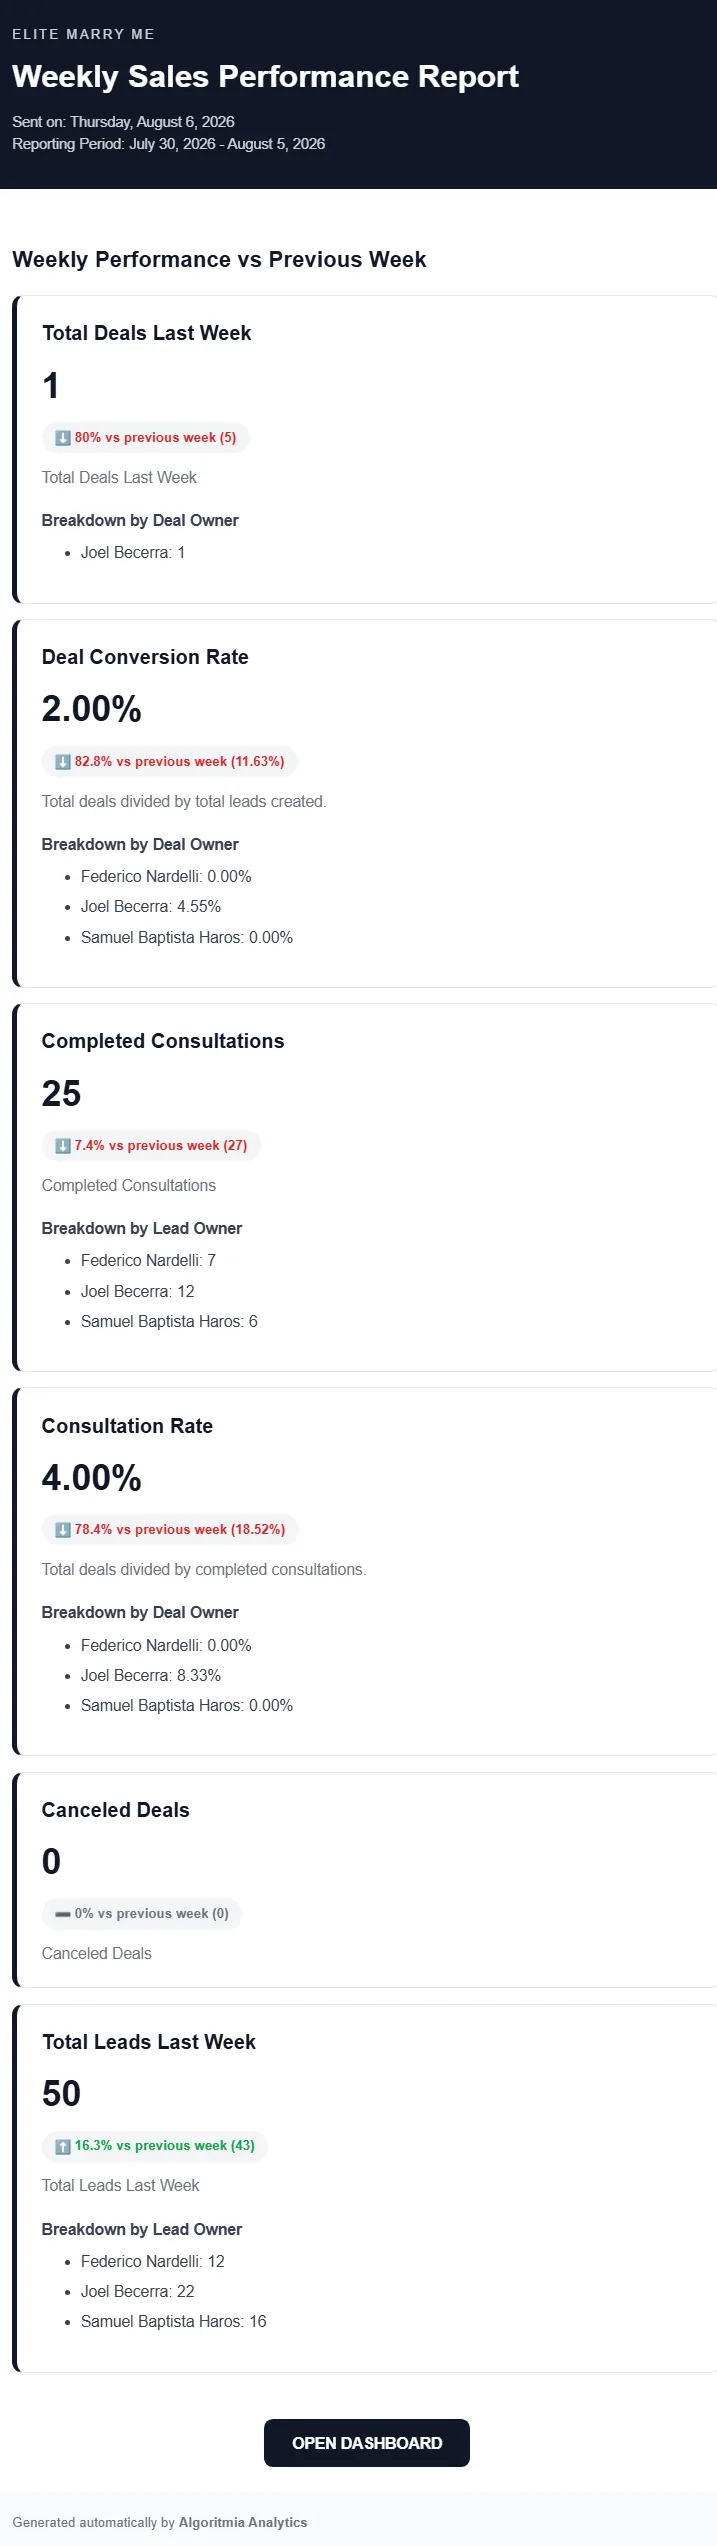
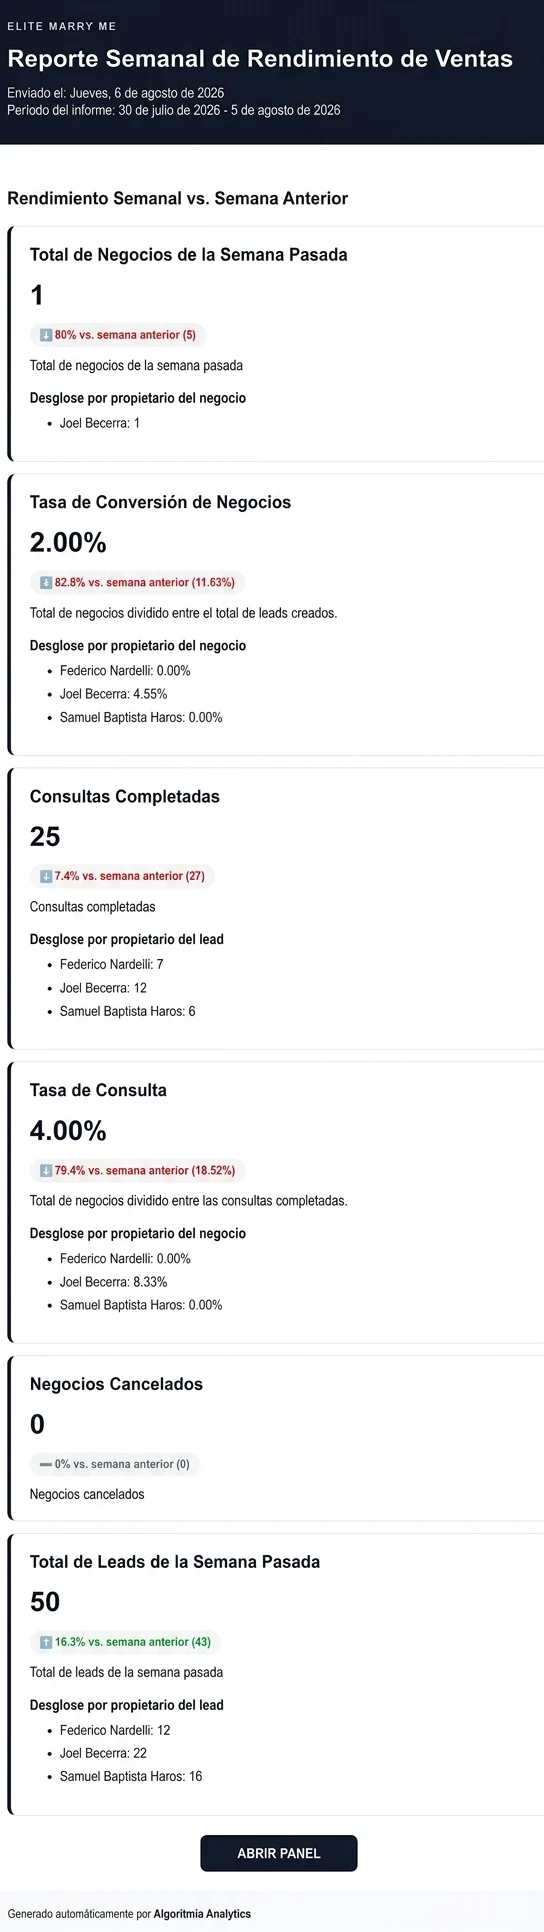
Foto en español para la automatización semanal de ventas
La captura actual (inglés) pasa a gmail data weekly-en.webp y la nueva
en español queda como la principal.

Claude-Session: https://claude.ai/code/session_01Aouw9WnimsE2P6Qrue7KLf

diff --git a/electronica-robotica.html b/electronica-robotica.html
@@ -2,4 +2,4 @@
 <html lang="en"><head><meta charset="UTF-8"><meta name="viewport" content="width=device-width, initial-scale=1.0"><title>Electronics &amp; Robotics · Geraldine.io</title><link rel="icon" type="image/svg+xml" href="assets/img/favicon.svg"><link rel="preconnect" href="https://fonts.googleapis.com"><link href="https://fonts.googleapis.com/css2?family=Fredoka:wght@500;600;700&family=Inter:wght@400;500;600;700&family=JetBrains+Mono:wght@400;500;700&display=swap" rel="stylesheet"><link rel="stylesheet" href="assets/styles.css?v=54"><script src="assets/theme-init.js?v=3"></script></head>
 <body class="category-page">
 <header><a class="brand display" href="index.html"><span class="paw">🐇</span><span>Geraldine<span style="color:var(--pink-deeper)">.io</span></span></a><nav class="category-nav" id="navMenu"><a href="index.html#sobre" data-i18n="nav_about">About</a><a href="index.html#skills" data-i18n="nav_skills">Skills</a><div class="nav-dropdown" id="projectsDropdown"><button class="nav-dropdown-toggle" id="projectsToggle" type="button" aria-expanded="false" aria-controls="projectsMenu"><span data-i18n="nav_projects">Projects</span><span class="nav-chevron" aria-hidden="true">⌄</span></button><div class="nav-dropdown-menu" id="projectsMenu"><a href="analisis-datos.html" data-i18n="nav_data">Data Analysis</a><a href="automatizaciones.html" data-i18n="nav_automation">Automations</a><a href="electronica-robotica.html" aria-current="page" data-i18n="nav_robotics">Electronics &amp; Robotics</a><a href="mobile-apps.html" data-i18n="nav_mobile">Mobile Apps</a><a href="paginas-web.html" data-i18n="nav_sites">Páginas web</a><a href="disenos.html" data-i18n="nav_design">Designs</a></div></div><a href="index.html#contacto" data-i18n="nav_contact">Contact</a></nav><div class="header-actions"><button class="theme-btn" id="themeBtn" type="button" aria-label="Switch to dark mode" aria-pressed="false" title="Switch to dark mode"><span id="themeIcon" aria-hidden="true">☾</span></button><button class="lang-btn" id="langBtn" type="button"><span id="langLabel">Cambiar idioma · EN</span></button><button class="nav-toggle" id="navToggle" type="button" aria-label="Open menu" aria-expanded="false" aria-controls="navMenu">☰</button></div></header>
-<main><section class="category-hero"><div class="category-kicker"><a class="back-link" href="index.html#proyectos" data-i18n="back">← Back to home</a><span class="eyebrow" data-i18n="eyebrow">projects</span></div><h1 data-i18n="robotics_title">Electronics &amp; Robotics</h1><p data-i18n="robotics_desc">Prototypes with sensors, microcontrollers and interactive physical systems.</p></section><section class="category-projects"><div class="proj-grid"><article class="proj-card"><h3 data-i18n="robotics_project">WRO Nicaragua 2024</h3><p data-i18n="robotics_project_desc">Robot developed for the 2024 National Robotics Olympiad challenge in Nicaragua.</p><div class="proj-stack"><span>MicroPython</span><span>Robotics</span><span>Sensors</span><span>Gyroscope</span></div><button class="proj-btn" type="button" data-project-index="3" data-i18n="view_project">View project</button></article><article class="proj-card"><h3 data-i18n="arduino_project">Arduino Projects Collection</h3><p data-i18n="arduino_project_desc">Collection of Arduino experiments with sensors, motors, Bluetooth modules, displays and interactive circuits.</p><div class="proj-stack"><span>Arduino</span><span>C++</span><span>Bluetooth</span><span>Sensors</span></div><button class="proj-btn" type="button" data-project-index="10" data-i18n="view_project">View project</button></article></div></section></main><script src="assets/project-pages.js?v=28"></script><script src="assets/navigation.js?v=22"></script></body></html>
+<main><section class="category-hero"><div class="category-kicker"><a class="back-link" href="index.html#proyectos" data-i18n="back">← Back to home</a><span class="eyebrow" data-i18n="eyebrow">projects</span></div><h1 data-i18n="robotics_title">Electronics &amp; Robotics</h1><p data-i18n="robotics_desc">Prototypes with sensors, microcontrollers and interactive physical systems.</p></section><section class="category-projects"><div class="proj-grid"><article class="proj-card"><h3 data-i18n="robotics_project">WRO Nicaragua 2024</h3><p data-i18n="robotics_project_desc">Robot developed for the 2024 National Robotics Olympiad challenge in Nicaragua.</p><div class="proj-stack"><span>MicroPython</span><span>Robotics</span><span>Sensors</span><span>Gyroscope</span></div><button class="proj-btn" type="button" data-project-index="3" data-i18n="view_project">View project</button></article><article class="proj-card"><h3 data-i18n="arduino_project">Arduino Projects Collection</h3><p data-i18n="arduino_project_desc">Collection of Arduino experiments with sensors, motors, Bluetooth modules, displays and interactive circuits.</p><div class="proj-stack"><span>Arduino</span><span>C++</span><span>Bluetooth</span><span>Sensors</span></div><button class="proj-btn" type="button" data-project-index="10" data-i18n="view_project">View project</button></article></div></section></main><script src="assets/project-pages.js?v=29"></script><script src="assets/navigation.js?v=22"></script></body></html>

diff --git a/automatizaciones.html b/automatizaciones.html
@@ -2,4 +2,4 @@
 <html lang="en"><head><meta charset="UTF-8"><meta name="viewport" content="width=device-width, initial-scale=1.0"><title>Automations · Geraldine.io</title><link rel="icon" type="image/svg+xml" href="assets/img/favicon.svg"><link rel="preconnect" href="https://fonts.googleapis.com"><link href="https://fonts.googleapis.com/css2?family=Fredoka:wght@500;600;700&family=Inter:wght@400;500;600;700&family=JetBrains+Mono:wght@400;500;700&display=swap" rel="stylesheet"><link rel="stylesheet" href="assets/styles.css?v=54"><script src="assets/theme-init.js?v=3"></script></head>
 <body class="category-page">
 <header><a class="brand display" href="index.html"><span class="paw">🐇</span><span>Geraldine<span style="color:var(--pink-deeper)">.io</span></span></a><nav class="category-nav" id="navMenu"><a href="index.html#sobre" data-i18n="nav_about">About</a><a href="index.html#skills" data-i18n="nav_skills">Skills</a><div class="nav-dropdown" id="projectsDropdown"><button class="nav-dropdown-toggle" id="projectsToggle" type="button" aria-expanded="false" aria-controls="projectsMenu"><span data-i18n="nav_projects">Projects</span><span class="nav-chevron" aria-hidden="true">⌄</span></button><div class="nav-dropdown-menu" id="projectsMenu"><a href="analisis-datos.html" data-i18n="nav_data">Data Analysis</a><a href="automatizaciones.html" aria-current="page" data-i18n="nav_automation">Automations</a><a href="electronica-robotica.html" data-i18n="nav_robotics">Electronics &amp; Robotics</a><a href="mobile-apps.html" data-i18n="nav_mobile">Mobile Apps</a><a href="paginas-web.html" data-i18n="nav_sites">Páginas web</a><a href="disenos.html" data-i18n="nav_design">Designs</a></div></div><a href="index.html#contacto" data-i18n="nav_contact">Contact</a></nav><div class="header-actions"><button class="theme-btn" id="themeBtn" type="button" aria-label="Switch to dark mode" aria-pressed="false" title="Switch to dark mode"><span id="themeIcon" aria-hidden="true">☾</span></button><button class="lang-btn" id="langBtn" type="button"><span id="langLabel">Cambiar idioma · EN</span></button><button class="nav-toggle" id="navToggle" type="button" aria-label="Open menu" aria-expanded="false" aria-controls="navMenu">☰</button></div></header>
-<main><section class="category-hero"><div class="category-kicker"><a class="back-link" href="index.html#proyectos" data-i18n="back">← Back to home</a><span class="eyebrow" data-i18n="eyebrow">projects</span></div><h1 data-i18n="automation_title">Automations</h1><p data-i18n="automation_desc">Solutions that connect tools, reduce repetitive work and keep information updated automatically.</p></section><section class="category-projects"><div class="proj-grid"><article class="proj-card"><h3 data-i18n="automation_project">Weekly Sales Performance Automation</h3><p data-i18n="automation_project_desc">Weekly sales report automated with Google Apps Script using data from BigQuery and HubSpot, then delivered through Gmail.</p><div class="proj-stack"><span>Google Apps Script</span><span>BigQuery</span><span>HubSpot</span><span>Gmail</span></div><button class="proj-btn" type="button" data-project-index="7" data-i18n="view_project">View project</button></article></div></section></main><script src="assets/project-pages.js?v=28"></script><script src="assets/navigation.js?v=22"></script></body></html>
+<main><section class="category-hero"><div class="category-kicker"><a class="back-link" href="index.html#proyectos" data-i18n="back">← Back to home</a><span class="eyebrow" data-i18n="eyebrow">projects</span></div><h1 data-i18n="automation_title">Automations</h1><p data-i18n="automation_desc">Solutions that connect tools, reduce repetitive work and keep information updated automatically.</p></section><section class="category-projects"><div class="proj-grid"><article class="proj-card"><h3 data-i18n="automation_project">Weekly Sales Performance Automation</h3><p data-i18n="automation_project_desc">Weekly sales report automated with Google Apps Script using data from BigQuery and HubSpot, then delivered through Gmail.</p><div class="proj-stack"><span>Google Apps Script</span><span>BigQuery</span><span>HubSpot</span><span>Gmail</span></div><button class="proj-btn" type="button" data-project-index="7" data-i18n="view_project">View project</button></article></div></section></main><script src="assets/project-pages.js?v=29"></script><script src="assets/navigation.js?v=22"></script></body></html>

diff --git a/disenos.html b/disenos.html
@@ -2,4 +2,4 @@
 <html lang="en"><head><meta charset="UTF-8"><meta name="viewport" content="width=device-width, initial-scale=1.0"><title>Designs · Geraldine.io</title><link rel="icon" type="image/svg+xml" href="assets/img/favicon.svg"><link rel="preconnect" href="https://fonts.googleapis.com"><link href="https://fonts.googleapis.com/css2?family=Fredoka:wght@500;600;700&family=Inter:wght@400;500;600;700&family=JetBrains+Mono:wght@400;500;700&display=swap" rel="stylesheet"><link rel="stylesheet" href="assets/styles.css?v=54"><script src="assets/theme-init.js?v=3"></script></head>
 <body class="category-page">
 <header><a class="brand display" href="index.html"><span class="paw">🐇</span><span>Geraldine<span style="color:var(--pink-deeper)">.io</span></span></a><nav class="category-nav" id="navMenu"><a href="index.html#sobre" data-i18n="nav_about">About</a><a href="index.html#skills" data-i18n="nav_skills">Skills</a><div class="nav-dropdown" id="projectsDropdown"><button class="nav-dropdown-toggle" id="projectsToggle" type="button" aria-expanded="false" aria-controls="projectsMenu"><span data-i18n="nav_projects">Projects</span><span class="nav-chevron" aria-hidden="true">⌄</span></button><div class="nav-dropdown-menu" id="projectsMenu"><a href="analisis-datos.html" data-i18n="nav_data">Data Analysis</a><a href="automatizaciones.html" data-i18n="nav_automation">Automations</a><a href="electronica-robotica.html" data-i18n="nav_robotics">Electronics &amp; Robotics</a><a href="mobile-apps.html" data-i18n="nav_mobile">Mobile Apps</a><a href="paginas-web.html" data-i18n="nav_sites">Páginas web</a><a href="disenos.html" aria-current="page" data-i18n="nav_design">Designs</a></div></div><a href="index.html#contacto" data-i18n="nav_contact">Contact</a></nav><div class="header-actions"><button class="theme-btn" id="themeBtn" type="button" aria-label="Switch to dark mode" aria-pressed="false" title="Switch to dark mode"><span id="themeIcon" aria-hidden="true">☾</span></button><button class="lang-btn" id="langBtn" type="button"><span id="langLabel">Cambiar idioma · EN</span></button><button class="nav-toggle" id="navToggle" type="button" aria-label="Open menu" aria-expanded="false" aria-controls="navMenu">☰</button></div></header>
-<main><section class="category-hero"><div class="category-kicker"><a class="back-link" href="index.html#proyectos" data-i18n="back">← Back to home</a><span class="eyebrow" data-i18n="eyebrow">projects</span></div><h1 data-i18n="design_title">Designs</h1></section><section class="category-projects"><div class="proj-grid"><article class="proj-card"><h3 data-i18n="design_project">Gerald Shop Brand Identity</h3><div class="client-icon" aria-label="Gerald Shop project"><img class="client-logo wide" src="assets/img/GeraldShop/geraldshop_icon.webp" alt="Gerald Shop logo"></div><p data-i18n="design_project_desc">Brand identity for a shipping agency connecting customers in Nicaragua with products from the United States.</p><div class="proj-stack"><span>Canva</span><span>Illustrator</span><span>Photoshop</span><span>PowerPoint</span></div><button class="proj-btn" type="button" data-project-index="6" data-i18n="view_project">View project</button></article></div></section></main><script src="assets/project-pages.js?v=28"></script><script src="assets/navigation.js?v=22"></script></body></html>
+<main><section class="category-hero"><div class="category-kicker"><a class="back-link" href="index.html#proyectos" data-i18n="back">← Back to home</a><span class="eyebrow" data-i18n="eyebrow">projects</span></div><h1 data-i18n="design_title">Designs</h1></section><section class="category-projects"><div class="proj-grid"><article class="proj-card"><h3 data-i18n="design_project">Gerald Shop Brand Identity</h3><div class="client-icon" aria-label="Gerald Shop project"><img class="client-logo wide" src="assets/img/GeraldShop/geraldshop_icon.webp" alt="Gerald Shop logo"></div><p data-i18n="design_project_desc">Brand identity for a shipping agency connecting customers in Nicaragua with products from the United States.</p><div class="proj-stack"><span>Canva</span><span>Illustrator</span><span>Photoshop</span><span>PowerPoint</span></div><button class="proj-btn" type="button" data-project-index="6" data-i18n="view_project">View project</button></article></div></section></main><script src="assets/project-pages.js?v=29"></script><script src="assets/navigation.js?v=22"></script></body></html>

diff --git a/mobile-apps.html b/mobile-apps.html
@@ -2,4 +2,4 @@
 <html lang="en"><head><meta charset="UTF-8"><meta name="viewport" content="width=device-width, initial-scale=1.0"><title>Mobile Apps · Geraldine.io</title><link rel="icon" type="image/svg+xml" href="assets/img/favicon.svg"><link rel="preconnect" href="https://fonts.googleapis.com"><link href="https://fonts.googleapis.com/css2?family=Fredoka:wght@500;600;700&family=Inter:wght@400;500;600;700&family=JetBrains+Mono:wght@400;500;700&display=swap" rel="stylesheet"><link rel="stylesheet" href="assets/styles.css?v=54"><script src="assets/theme-init.js?v=3"></script></head>
 <body class="category-page">
 <header><a class="brand display" href="index.html"><span class="paw">🐇</span><span>Geraldine<span style="color:var(--pink-deeper)">.io</span></span></a><nav class="category-nav" id="navMenu"><a href="index.html#sobre" data-i18n="nav_about">About</a><a href="index.html#skills" data-i18n="nav_skills">Skills</a><div class="nav-dropdown" id="projectsDropdown"><button class="nav-dropdown-toggle" id="projectsToggle" type="button" aria-expanded="false" aria-controls="projectsMenu"><span data-i18n="nav_projects">Projects</span><span class="nav-chevron" aria-hidden="true">⌄</span></button><div class="nav-dropdown-menu" id="projectsMenu"><a href="analisis-datos.html" data-i18n="nav_data">Data Analysis</a><a href="automatizaciones.html" data-i18n="nav_automation">Automations</a><a href="electronica-robotica.html" data-i18n="nav_robotics">Electronics &amp; Robotics</a><a href="mobile-apps.html" aria-current="page" data-i18n="nav_mobile">Mobile Apps</a><a href="paginas-web.html" data-i18n="nav_sites">Páginas web</a><a href="disenos.html" data-i18n="nav_design">Designs</a></div></div><a href="index.html#contacto" data-i18n="nav_contact">Contact</a></nav><div class="header-actions"><button class="theme-btn" id="themeBtn" type="button" aria-label="Switch to dark mode" aria-pressed="false" title="Switch to dark mode"><span id="themeIcon" aria-hidden="true">☾</span></button><button class="lang-btn" id="langBtn" type="button"><span id="langLabel">Cambiar idioma · EN</span></button><button class="nav-toggle" id="navToggle" type="button" aria-label="Open menu" aria-expanded="false" aria-controls="navMenu">☰</button></div></header>
-<main><section class="category-hero"><div class="category-kicker"><a class="back-link" href="index.html#proyectos" data-i18n="back">← Back to home</a><span class="eyebrow" data-i18n="eyebrow">projects</span></div><h1 data-i18n="mobile_title">Mobile Apps</h1><p data-i18n="mobile_desc">Mobile applications developed for iOS and Android with clear, functional experiences.</p></section><section class="category-projects"><div class="proj-grid"><article class="proj-card"><h3 data-i18n="mobile_project">UAM Courses</h3><p data-i18n="mobile_project_desc">iOS application for exploring, organizing and managing the Universidad Americana course catalog.</p><div class="proj-stack"><span>Swift</span><span>UIKit</span><span>MVVM</span></div><button class="proj-btn" type="button" data-project-index="4" data-i18n="view_project">View project</button></article></div></section></main><script src="assets/project-pages.js?v=28"></script><script src="assets/navigation.js?v=22"></script></body></html>
+<main><section class="category-hero"><div class="category-kicker"><a class="back-link" href="index.html#proyectos" data-i18n="back">← Back to home</a><span class="eyebrow" data-i18n="eyebrow">projects</span></div><h1 data-i18n="mobile_title">Mobile Apps</h1><p data-i18n="mobile_desc">Mobile applications developed for iOS and Android with clear, functional experiences.</p></section><section class="category-projects"><div class="proj-grid"><article class="proj-card"><h3 data-i18n="mobile_project">UAM Courses</h3><p data-i18n="mobile_project_desc">iOS application for exploring, organizing and managing the Universidad Americana course catalog.</p><div class="proj-stack"><span>Swift</span><span>UIKit</span><span>MVVM</span></div><button class="proj-btn" type="button" data-project-index="4" data-i18n="view_project">View project</button></article></div></section></main><script src="assets/project-pages.js?v=29"></script><script src="assets/navigation.js?v=22"></script></body></html>

diff --git a/proyecto.html b/proyecto.html
@@ -2,4 +2,4 @@
 <html lang="en"><head><meta charset="UTF-8"><meta name="viewport" content="width=device-width, initial-scale=1.0"><title>Proyecto · Kristel Villalta</title><link rel="icon" type="image/svg+xml" href="assets/img/favicon.svg"><link rel="preconnect" href="https://fonts.googleapis.com"><link href="https://fonts.googleapis.com/css2?family=Fredoka:wght@500;600;700&family=Inter:wght@400;500;600;700&family=JetBrains+Mono:wght@400;500;700&display=swap" rel="stylesheet"><link rel="stylesheet" href="assets/styles.css?v=54"><script src="assets/theme-init.js?v=3"></script></head>
 <body class="category-page project-detail-page">
 <header><a class="brand display" href="index.html"><span class="paw">🐇</span><span>Geraldine<span style="color:var(--pink-deeper)">.io</span></span></a><nav class="category-nav" id="navMenu"><a href="index.html#sobre" data-i18n="nav_about">About</a><a href="index.html#skills" data-i18n="nav_skills">Skills</a><div class="nav-dropdown" id="projectsDropdown"><button class="nav-dropdown-toggle" id="projectsToggle" type="button" aria-expanded="false" aria-controls="projectsMenu"><span data-i18n="nav_projects">Projects</span><span class="nav-chevron" aria-hidden="true">⌄</span></button><div class="nav-dropdown-menu" id="projectsMenu"><a href="analisis-datos.html" data-i18n="nav_data">Data Analysis</a><a href="automatizaciones.html" data-i18n="nav_automation">Automations</a><a href="electronica-robotica.html" data-i18n="nav_robotics">Electronics &amp; Robotics</a><a href="mobile-apps.html" aria-current="page" data-i18n="nav_mobile">Mobile Apps</a><a href="paginas-web.html" data-i18n="nav_sites">Páginas web</a><a href="disenos.html" data-i18n="nav_design">Designs</a></div></div><a href="index.html#contacto" data-i18n="nav_contact">Contact</a></nav><div class="header-actions"><button class="theme-btn" id="themeBtn" type="button" aria-label="Switch to dark mode" aria-pressed="false" title="Switch to dark mode"><span id="themeIcon" aria-hidden="true">☾</span></button><button class="lang-btn" id="langBtn" type="button"><span id="langLabel">Cambiar idioma · EN</span></button><button class="nav-toggle" id="navToggle" type="button" aria-label="Open menu" aria-expanded="false" aria-controls="navMenu">☰</button></div></header>
-<main id="projectDetail" class="pd" aria-live="polite"></main><script src="assets/project-pages.js?v=28"></script><script src="assets/navigation.js?v=22"></script></body></html>
+<main id="projectDetail" class="pd" aria-live="polite"></main><script src="assets/project-pages.js?v=29"></script><script src="assets/navigation.js?v=22"></script></body></html>

diff --git a/assets/project-pages.js b/assets/project-pages.js
@@ -233,7 +233,7 @@ const projects = [
   },
   {
     title:{en:'Weekly Sales Performance Automation', es:'Automatización de Rendimiento Semanal de Ventas'},
-    images:[{src:'assets/img/Marry Me/gmail data weekly.webp', alt:'Automated weekly sales performance report'}],
+    images:[{src:'assets/img/Marry Me/gmail data weekly.webp', alt:'Reporte semanal automatizado de rendimiento de ventas'}],
     desc:{en:'Weekly sales performance report automated with Google Apps Script. It consolidates data from BigQuery and HubSpot and distributes the updated report through Gmail.', es:'Reporte semanal de rendimiento de ventas automatizado con Google Apps Script. Consolida datos de BigQuery y HubSpot y distribuye el reporte actualizado por Gmail.'},
     technologies:['Google Apps Script','BigQuery','HubSpot','Gmail'],
     bullets:{en:['Automated extraction and processing with Google Apps Script','BigQuery and HubSpot data integration','Weekly report delivery through Gmail','Week-over-week KPI comparison'],es:['Extracción y procesamiento automatizados con Google Apps Script','Integración de datos de BigQuery y HubSpot','Envío semanal del reporte mediante Gmail','Comparación de KPIs contra la semana anterior']}

diff --git a/paginas-web.html b/paginas-web.html
@@ -8,6 +8,6 @@
 <div class="client-icon website-logo-wrap"><img class="website-logo" src="assets/img/lo-nuestro.webp" alt="Logo de Lo Nuestro · Identidad cultural nicaragüense" width="1300" height="434"></div>
 <h3>Lo Nuestro</h3><p data-i18n="lo_desc">Lo Nuestro es una plataforma digital y revista cultural dedicada a documentar, visibilizar y difundir el trabajo de los artesanos nicaragüenses. A través de historias, fotografías y perfiles, damos a conocer sus oficios, sus materiales, sus territorios y los saberes que han transmitido de generación en generación.</p><div class="proj-stack"><span>WordPress</span></div><button class="proj-btn" type="button" data-project-index="11" data-i18n="view_project">Ver proyecto</button>
 </article></div></section>
-</main><script src="assets/project-pages.js?v=28"></script><script src="assets/navigation.js?v=22"></script></body></html>
+</main><script src="assets/project-pages.js?v=29"></script><script src="assets/navigation.js?v=22"></script></body></html>
 
 

diff --git a/analisis-datos.html b/analisis-datos.html
@@ -101,6 +101,6 @@
   <button class="lightbox-nav next" id="lightboxNext" type="button" aria-label="Next image">›</button>
   <div class="lightbox-counter" id="lightboxCounter"></div>
 </div>
-<script src="assets/project-pages.js?v=28"></script>
+<script src="assets/project-pages.js?v=29"></script>
 <script src="assets/navigation.js?v=22"></script></body>
 </html>
